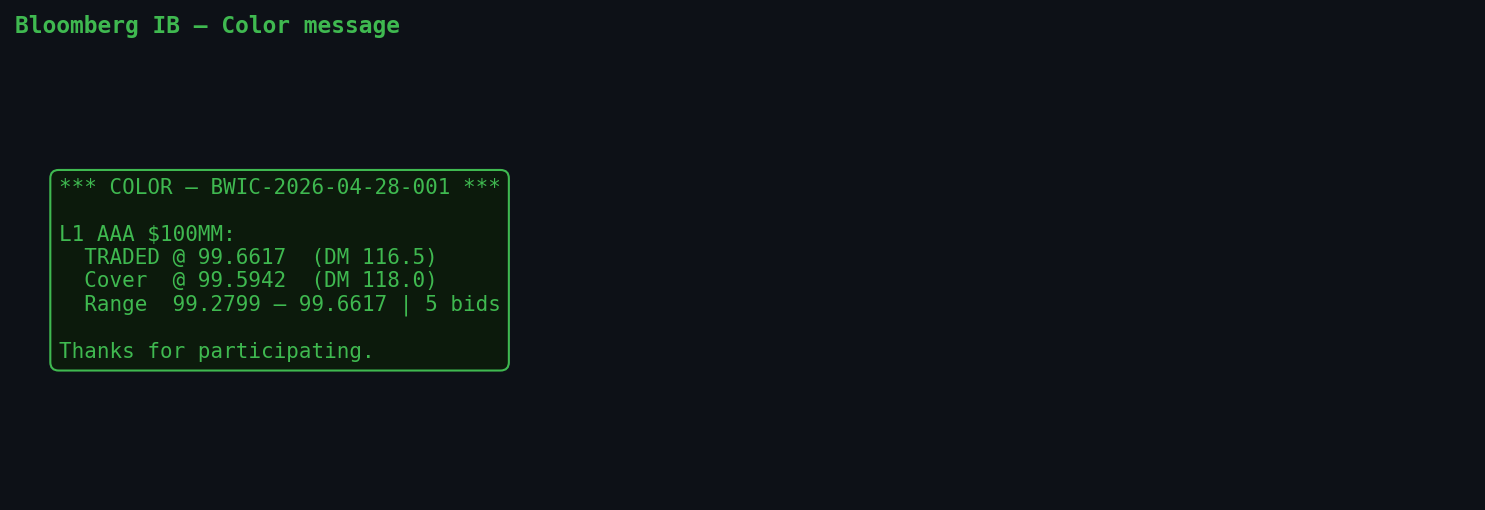
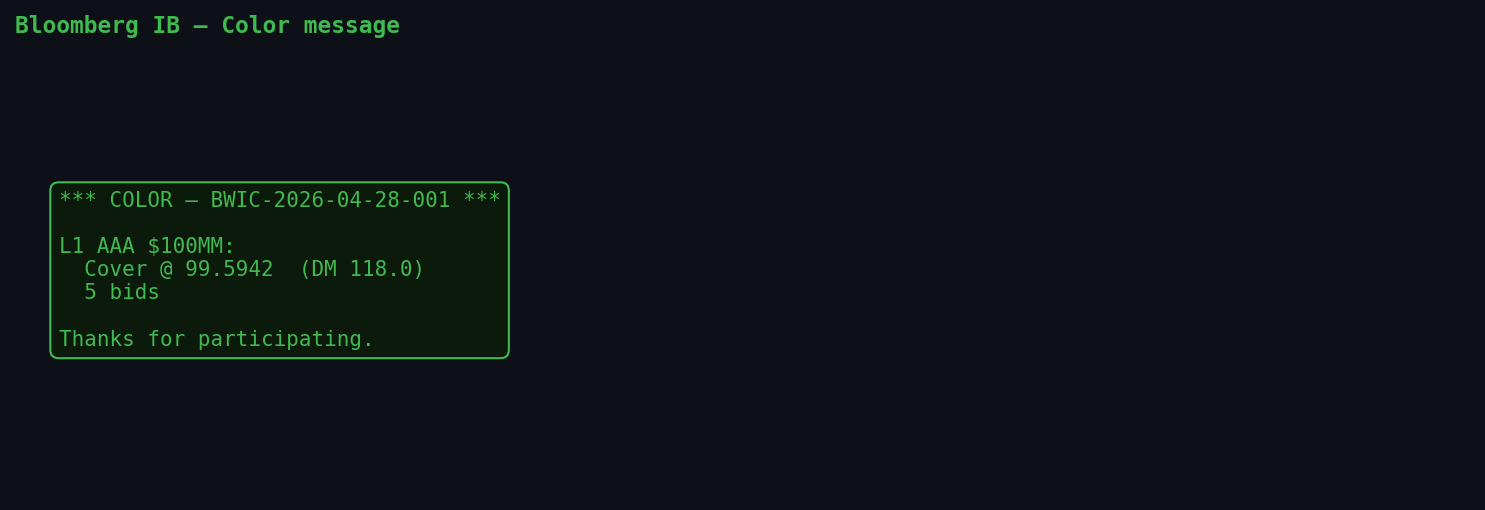
Color message: drop TRADED + range, show cover only
Market convention: the winning trade price is private between seller and
winner. Color shared with the broader market shows only the cover dealer's
price + DM and the bid count. The award screen (seller-only) still shows
the full winner/cover detail.

Updated app.py IB color message + render_demo.py + demo_05_ib_color.png.

https://claude.ai/code/session_01TPhV63KKZkjYpbmXZRNirq

Changed region(s): [[0.031, 0.4412, 0.3407, 0.6176], [0.031, 0.3235, 0.3407, 0.4118], [0.031, 0.6471, 0.3407, 0.7353]]

diff --git a/app.py b/app.py
@@ -965,20 +965,15 @@ def _ib_messages(date, datetime, get_state, mo, pd):
                 _color_lines.append(f"{_hdr}: DNT — {_aw.dnt_reason}")
                 continue
             _best = _line._best_bid_per_dealer()
-            _prices = sorted([b.price for b in _best.values()], reverse=True)
             _color_lines.append(f"{_hdr}:")
-            _color_lines.append(
-                f"  TRADED @ {_aw.award_price:.4f}"
-                + (f"  (DM {_aw.spread_at_award:.1f})" if _aw.spread_at_award is not None else "")
-            )
             if _aw.cover_dealer:
                 _color_lines.append(
-                    f"  Cover  @ {_aw.cover_price:.4f}"
+                    f"  Cover @ {_aw.cover_price:.4f}"
                     + (f"  (DM {_aw.spread_at_cover:.1f})" if _aw.spread_at_cover is not None else "")
                 )
-            _color_lines.append(
-                f"  Range  {_prices[-1]:.4f} – {_prices[0]:.4f} | {len(_best)} bids"
-            )
+            else:
+                _color_lines.append("  TRADED — no cover (single bid)")
+            _color_lines.append(f"  {len(_best)} bids")
             _color_lines.append("")
         _color_lines.append("Thanks for participating.")
     else:

diff --git a/render_demo.py b/render_demo.py
@@ -308,9 +308,8 @@ prices = sorted([b.price for b in best.values()], reverse=True)
 color_ib = f"""*** COLOR — BWIC-2026-04-28-001 ***
 
 L1 AAA $100MM:
-  TRADED @ {award.award_price:.4f}  (DM {award.spread_at_award:.1f})
-  Cover  @ {award.cover_price:.4f}  (DM {award.spread_at_cover:.1f})
-  Range  {prices[-1]:.4f} – {prices[0]:.4f} | {len(best)} bids
+  Cover @ {award.cover_price:.4f}  (DM {award.spread_at_cover:.1f})
+  {len(best)} bids
 
 Thanks for participating."""
 
